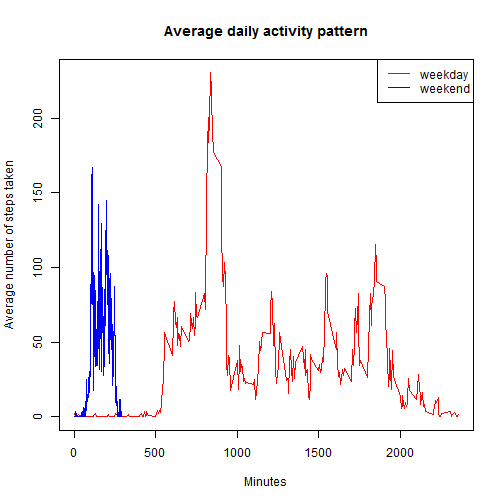
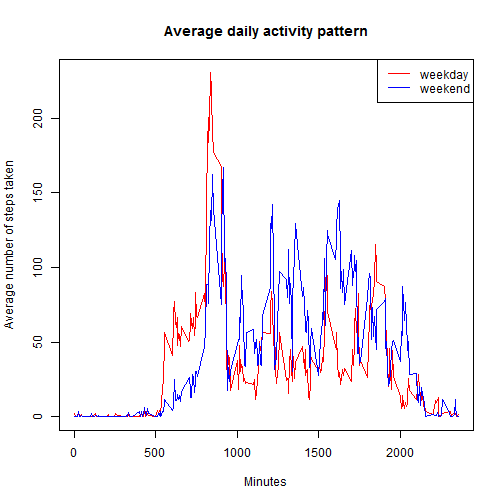
version1.02

diff --git a/PA1_template.html b/PA1_template.html
@@ -197,19 +197,11 @@ hist(Steps,breaks=12,main=&quot;Histogram of the total number of steps taken eac
 
[1 lines of base64/hex data omitted]
 
-<p>The mean and median total number of steps taken per day is:</p>
-
-<pre><code class="r">mean(Steps)
+<pre><code class="r">mean &lt;- mean(Steps)
+median &lt;- median(Steps)
 </code></pre>
 
-<pre><code>## [1] 9354
-</code></pre>
-
-<pre><code class="r">median(Steps)
-</code></pre>
-
-<pre><code>## [1] 10395
-</code></pre>
+<p>The mean and median total number of steps taken per day is 9354.2295 and 10395, respectively.</p>
 
 <h2>3. What is the average daily activity pattern?</h2>
 
@@ -221,23 +213,17 @@ title(&quot;Average daily activity pattern&quot;)
 
[1 lines of base64/hex data omitted]
 
-<p>The 5-minute interval containing the maximum number of steps is:</p>
-
-<pre><code class="r">Minutes[which.max(Average5M)]
+<pre><code class="r">Max &lt;- Minutes[which.max(Average5M)]
 </code></pre>
 
-<pre><code>## [1] &quot;835&quot;
-</code></pre>
+<p>The 5-minute interval containing the maximum number of steps is 835. </p>
 
 <h2>4. Imputing missing values</h2>
 
-<p>The total number of missing values in the dataset:</p>
-
-<pre><code class="r">sum(is.na(data[,1]))
+<pre><code class="r">missings &lt;- sum(is.na(data[,1]))
 </code></pre>
 
-<pre><code>## [1] 2304
-</code></pre>
+<p>The total number of missing values in the dataset is 2304.</p>
 
 <p>Create a new dataset that is equal to the original dataset but with the missing data filled with the mean for that 5-minute interval:</p>
 
@@ -247,16 +233,6 @@ for (x in 1:nrow(data2)){
         data2[x,1] &lt;- Average5M[ as.character(data2[x,3]) ] 
     }
 }
-head(data2)
-</code></pre>
-
-<pre><code>##     steps       date interval
-## 1 1.71698 2012-10-01        0
-## 2 0.33962 2012-10-01        5
-## 3 0.13208 2012-10-01       10
-## 4 0.15094 2012-10-01       15
-## 5 0.07547 2012-10-01       20
-## 6 2.09434 2012-10-01       25
 </code></pre>
 
 <p>The histogram of the total number of steps taken each day:</p>
@@ -267,23 +243,16 @@ hist(StepsIM,breaks=12,xlab=&quot;Steps&quot;,main=NULL)
 
[1 lines of base64/hex data omitted]
 
-<p>The mean and median total number of steps taken per day is:</p>
-
-<pre><code class="r">mean(StepsIM)
+<pre><code class="r">mean &lt;- mean(StepsIM)
+median &lt;- median(StepsIM)
 </code></pre>
 
-<pre><code>## [1] 10766
-</code></pre>
-
-<pre><code class="r">median(StepsIM)
-</code></pre>
-
-<pre><code>## [1] 10766
-</code></pre>
+<p>The mean and median total number of steps taken per day is 1.0766 &times; 10<sup>4</sup> and 1.0766 &times; 10<sup>4</sup>, respectively.</p>
 
 <p>From these results, the mean total number of steps taken per day is significantly 
 improved, and the median value is comparable to the estimate from the first part 
-of the assignment. It also seems that imputing missing data does have significantly influence on the distribution of the total daily number of steps.</p>
+of the assignment. It also seems that imputing missing data does have significantly 
+influence on the distribution of the total daily number of steps.</p>
 
 <h2>5. Are there differences in activity patterns between weekdays and weekends?</h2>
 
@@ -302,12 +271,12 @@ Average5Mweekday &lt;- tapply(data2weekday[,1],data2weekday[,3],mean)
 <p>Plotting:</p>
 
 <pre><code class="r">plot(Minutes,Average5Mweekday,type=&quot;l&quot;,col=&quot;red&quot;,ylab=&quot;Average number of steps taken&quot;)
-lines(Average5Mweekend,type=&quot;l&quot;,col=&quot;blue&quot;)
+lines(Minutes,Average5Mweekend,type=&quot;l&quot;,col=&quot;blue&quot;)
 legend(&quot;topright&quot;,legend=c(&quot;weekday&quot;,&quot;weekend&quot;),col=c(&quot;red&quot;,&quot;blue&quot;),lty=1)
 title(&quot;Average daily activity pattern&quot;)
 </code></pre>
 
[2 lines of base64/hex data omitted]
 
 <p>As shown in above figure, there&#39;s signifcant differences in activity patterns between weekdays and weekends.</p>
 

diff --git a/PA1_template.md b/PA1_template.md
@@ -18,24 +18,12 @@ hist(Steps,breaks=12,main="Histogram of the total number of steps taken each day
 
 ![plot of chunk Q2.1](figure/Q2.1.png) 
 
-The mean and median total number of steps taken per day is:
-
-
 ```r
-mean(Steps)
+mean <- mean(Steps)
+median <- median(Steps)
 ```
 
-```
-## [1] 9354
-```
-
-```r
-median(Steps)
-```
-
-```
-## [1] 10395
-```
+The mean and median total number of steps taken per day is 9354.2295 and 10395, respectively.
 
 ## 3. What is the average daily activity pattern?
 
@@ -49,30 +37,21 @@ title("Average daily activity pattern")
 
 ![plot of chunk Q3.1](figure/Q3.1.png) 
 
-The 5-minute interval containing the maximum number of steps is:
-
-
 ```r
-Minutes[which.max(Average5M)]
+Max <- Minutes[which.max(Average5M)]
 ```
 
-```
-## [1] "835"
-```
+The 5-minute interval containing the maximum number of steps is 835. 
 
 
 ## 4. Imputing missing values
 
-The total number of missing values in the dataset:
-
 
 ```r
-sum(is.na(data[,1]))
+missings <- sum(is.na(data[,1]))
 ```
 
-```
-## [1] 2304
-```
+The total number of missing values in the dataset is 2304.
 
 Create a new dataset that is equal to the original dataset but with the missing data filled with the mean for that 5-minute interval:
 
@@ -84,17 +63,6 @@ for (x in 1:nrow(data2)){
         data2[x,1] <- Average5M[ as.character(data2[x,3]) ] 
     }
 }
-head(data2)
-```
-
-```
-##     steps       date interval
-## 1 1.71698 2012-10-01        0
-## 2 0.33962 2012-10-01        5
-## 3 0.13208 2012-10-01       10
-## 4 0.15094 2012-10-01       15
-## 5 0.07547 2012-10-01       20
-## 6 2.09434 2012-10-01       25
 ```
 
 The histogram of the total number of steps taken each day:
@@ -107,28 +75,17 @@ hist(StepsIM,breaks=12,xlab="Steps",main=NULL)
 
 ![plot of chunk Q4.3](figure/Q4.3.png) 
 
-The mean and median total number of steps taken per day is:
-
-
 ```r
-mean(StepsIM)
+mean <- mean(StepsIM)
+median <- median(StepsIM)
 ```
 
-```
-## [1] 10766
-```
-
-```r
-median(StepsIM)
-```
-
-```
-## [1] 10766
-```
+The mean and median total number of steps taken per day is 1.0766 &times; 10<sup>4</sup> and 1.0766 &times; 10<sup>4</sup>, respectively.
 
 From these results, the mean total number of steps taken per day is significantly 
 improved, and the median value is comparable to the estimate from the first part 
-of the assignment. It also seems that imputing missing data does have significantly influence on the distribution of the total daily number of steps.
+of the assignment. It also seems that imputing missing data does have significantly 
+influence on the distribution of the total daily number of steps.
 
 ## 5. Are there differences in activity patterns between weekdays and weekends?
 
@@ -151,7 +108,7 @@ Plotting:
 
 ```r
 plot(Minutes,Average5Mweekday,type="l",col="red",ylab="Average number of steps taken")
-lines(Average5Mweekend,type="l",col="blue")
+lines(Minutes,Average5Mweekend,type="l",col="blue")
 legend("topright",legend=c("weekday","weekend"),col=c("red","blue"),lty=1)
 title("Average daily activity pattern")
 ```
